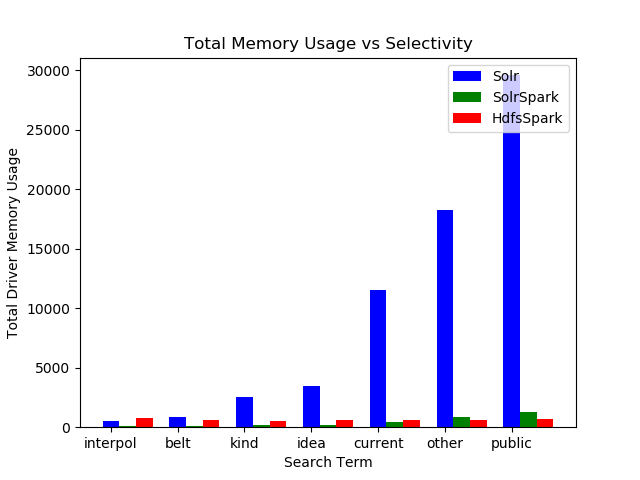
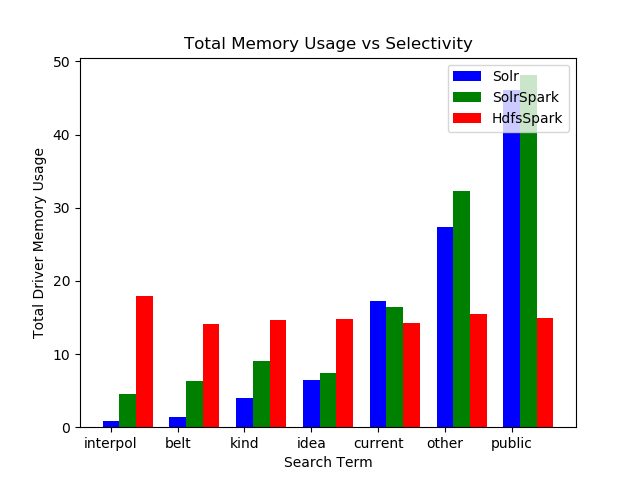
Fix percentage

diff --git a/report/resource_usage.py b/report/resource_usage.py
@@ -147,13 +147,25 @@ def get_pod_metrics(exp_type, term, log_length):
 
                 if log_time > last_log_time:
                     # flush the last group
-                    spark_cpu_usage.append(np.sum(spark_cpu_group))
-                    hdfs_cpu_usage.append(np.sum(hdfs_cpu_group))
-                    solr_cpu_usage.append(np.sum(solr_cpu_group))
 
-                    spark_mem_usage.append(np.sum(spark_mem_group))
-                    hdfs_mem_usage.append(np.sum(hdfs_mem_group))
-                    solr_mem_usage.append(np.sum(solr_mem_group))
+                    # TODO: convert to percentage?
+                    total_spark_cpu = np.sum(spark_cpu_group)
+                    total_hdfs_cpu = np.sum(hdfs_cpu_group)
+                    total_solr_cpu = np.sum(solr_cpu_group)
+                    total_cpu = total_spark_cpu + total_hdfs_cpu + total_solr_cpu
+
+                    spark_cpu_usage.append(total_spark_cpu / total_cpu * 100)
+                    hdfs_cpu_usage.append(total_hdfs_cpu / total_cpu * 100)
+                    solr_cpu_usage.append(total_solr_cpu / total_cpu * 100)
+
+                    total_spark_mem = np.sum(spark_mem_group)
+                    total_hdfs_mem = np.sum(hdfs_mem_group)
+                    total_solr_mem = np.sum(solr_mem_group)
+                    total_mem = total_spark_mem + total_hdfs_mem + total_solr_mem
+
+                    spark_mem_usage.append(total_spark_mem / total_mem * 100)
+                    hdfs_mem_usage.append(total_hdfs_mem / total_mem * 100)
+                    solr_mem_usage.append(total_solr_mem / total_mem * 100)
 
                     if log_length == len(spark_cpu_usage): break
 
@@ -167,8 +179,8 @@ def get_pod_metrics(exp_type, term, log_length):
 
                     last_log_time = log_time
 
-                # convert milliCPU to CPU %
-                CPU /= (10 * num_cores)
+                # convert milliCPU to CPU
+                CPU /= (1000 * num_cores)
 
                 # convert all memory to Gi
                 converted = MEM
@@ -177,9 +189,6 @@ def get_pod_metrics(exp_type, term, log_length):
                     converted /= 1024
                     if MEM_UNIT == "Ki":
                         converted /= 1024
-
-                # convert to percentage
-                converted = converted / total_mem * 100
 
                 if "spark" in label:
                     spark_cpu_group.append(CPU)
@@ -287,42 +296,46 @@ def draw_bar_terms():
                 term_exps[term][exp_type]['cpu_usage'] = np.pad(term_exps[term][exp_type]['cpu_usage'], (0, pad_size), 'constant')
                 term_exps[term][exp_type]['mem_usage'] = np.pad(term_exps[term][exp_type]['mem_usage'], (0, pad_size), 'constant')
 
-            spark_log_length = len(term_exps[term][exp_type]['spark_cpu_usage'])
-
-            if spark_log_length < max_driver_cpu_usage_len:
-                # pad remaining indices with zero
-                pad_size = max_driver_cpu_usage_len - spark_log_length
-                term_exps[term][exp_type]['spark_cpu_usage'] = np.pad(term_exps[term][exp_type]['spark_cpu_usage'], (0, pad_size), 'constant')
-                term_exps[term][exp_type]['spark_mem_usage'] = np.pad(term_exps[term][exp_type]['spark_mem_usage'], (0, pad_size), 'constant')
-
-            solr_log_length = len(term_exps[term][exp_type]['solr_cpu_usage'])
-
-            if solr_log_length < max_driver_cpu_usage_len:
-                # center align and pad with first/last value
-                pad_size = max_driver_cpu_usage_len - solr_log_length
-
-                left_pad = math.ceil(pad_size/2)
-                right_pad = pad_size - left_pad
-
-                term_exps[term][exp_type]['solr_cpu_usage'] = np.pad(term_exps[term][exp_type]['solr_cpu_usage'], (left_pad, right_pad), 'edge')
-                term_exps[term][exp_type]['solr_mem_usage'] = np.pad(term_exps[term][exp_type]['solr_mem_usage'], (left_pad, right_pad), 'edge')
-
-            hdfs_log_length = len(term_exps[term][exp_type]['hdfs_cpu_usage'])
-
-            if hdfs_log_length < max_driver_cpu_usage_len:
-                # center align and pad with first/last value
-                pad_size = max_driver_cpu_usage_len - hdfs_log_length
-
-                left_pad = math.ceil(pad_size/2)
-                right_pad = pad_size - left_pad
-
-                term_exps[term][exp_type]['hdfs_cpu_usage'] = np.pad(term_exps[term][exp_type]['hdfs_cpu_usage'], (left_pad, right_pad), 'edge')
-                term_exps[term][exp_type]['hdfs_mem_usage'] = np.pad(term_exps[term][exp_type]['hdfs_mem_usage'], (left_pad, right_pad), 'edge')
+            # spark_log_length = len(term_exps[term][exp_type]['spark_cpu_usage'])
+            #
+            # if spark_log_length < max_driver_cpu_usage_len:
+            #     # pad remaining indices with zero
+            #     pad_size = max_driver_cpu_usage_len - spark_log_length
+            #     term_exps[term][exp_type]['spark_cpu_usage'] = np.pad(term_exps[term][exp_type]['spark_cpu_usage'], (0, pad_size), 'constant')
+            #     term_exps[term][exp_type]['spark_mem_usage'] = np.pad(term_exps[term][exp_type]['spark_mem_usage'], (0, pad_size), 'constant')
+            #
+            # solr_log_length = len(term_exps[term][exp_type]['solr_cpu_usage'])
+            #
+            # if solr_log_length < max_driver_cpu_usage_len:
+            #     # center align and pad with first/last value
+            #     pad_size = max_driver_cpu_usage_len - solr_log_length
+            #
+            #     left_pad = math.ceil(pad_size/2)
+            #     right_pad = pad_size - left_pad
+            #
+            #     term_exps[term][exp_type]['solr_cpu_usage'] = np.pad(term_exps[term][exp_type]['solr_cpu_usage'], (left_pad, right_pad), 'edge')
+            #     term_exps[term][exp_type]['solr_mem_usage'] = np.pad(term_exps[term][exp_type]['solr_mem_usage'], (left_pad, right_pad), 'edge')
+            #
+            # hdfs_log_length = len(term_exps[term][exp_type]['hdfs_cpu_usage'])
+            #
+            # if hdfs_log_length < max_driver_cpu_usage_len:
+            #     # center align and pad with first/last value
+            #     pad_size = max_driver_cpu_usage_len - hdfs_log_length
+            #
+            #     left_pad = math.ceil(pad_size/2)
+            #     right_pad = pad_size - left_pad
+            #
+            #     term_exps[term][exp_type]['hdfs_cpu_usage'] = np.pad(term_exps[term][exp_type]['hdfs_cpu_usage'], (left_pad, right_pad), 'edge')
+            #     term_exps[term][exp_type]['hdfs_mem_usage'] = np.pad(term_exps[term][exp_type]['hdfs_mem_usage'], (left_pad, right_pad), 'edge')
 
     # cpu
     exp1_driver_cpu_usage = np.sum([term_exps[term]['solr']['cpu_usage'] for term in terms], axis=1)
     exp2_driver_cpu_usage = np.sum([term_exps[term]['spark_solr']['cpu_usage'] for term in terms], axis=1)
     exp3_driver_cpu_usage = np.sum([term_exps[term]['hdfs_spark']['cpu_usage'] for term in terms], axis=1)
+
+    exp1_driver_cpu_usage = exp1_driver_cpu_usage / np.sum(exp1_driver_cpu_usage) * 100
+    exp2_driver_cpu_usage = exp2_driver_cpu_usage / np.sum(exp2_driver_cpu_usage) * 100
+    exp3_driver_cpu_usage = exp3_driver_cpu_usage / np.sum(exp3_driver_cpu_usage) * 100
 
     X = np.arange(len(terms))
 
@@ -349,6 +362,10 @@ def draw_bar_terms():
     exp2_driver_mem_usage = np.sum([term_exps[term]['spark_solr']['mem_usage'] for term in terms], axis=1)
     exp3_driver_mem_usage = np.sum([term_exps[term]['hdfs_spark']['mem_usage'] for term in terms], axis=1)
 
+    exp1_driver_mem_usage = exp1_driver_mem_usage / np.sum(exp1_driver_mem_usage) * 100
+    exp2_driver_mem_usage = exp2_driver_mem_usage / np.sum(exp2_driver_mem_usage) * 100
+    exp3_driver_mem_usage = exp3_driver_mem_usage / np.sum(exp3_driver_mem_usage) * 100
+
     X = np.arange(len(terms))
 
     plt.title("Total Memory Usage vs Selectivity")
@@ -368,7 +385,6 @@ def draw_bar_terms():
     plt.legend(['Solr', 'SolrSpark', 'HdfsSpark'], loc='upper right')
 
     plt.savefig(os.path.join(graphs_dir, "mem_selectivity.png"))
-
 
 def draw_runtime():
     # plot bar graph for driver runtime for each experiment
@@ -434,9 +450,9 @@ for term in terms:
         print('\tlog length - ', driver_log_length, 'm')
 
 
-draw_runtime()
+# draw_runtime()
 # draw_line_exp()
-# draw_bar_terms()
+draw_bar_terms()
 
 # mapping = {}
 
